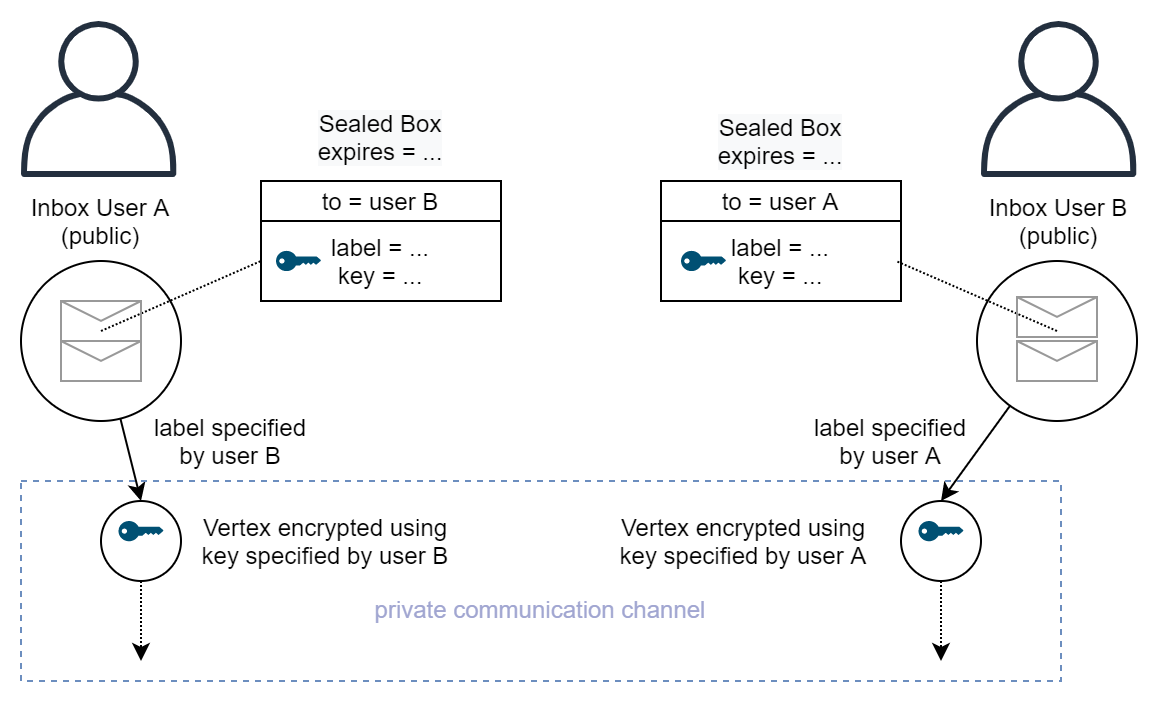
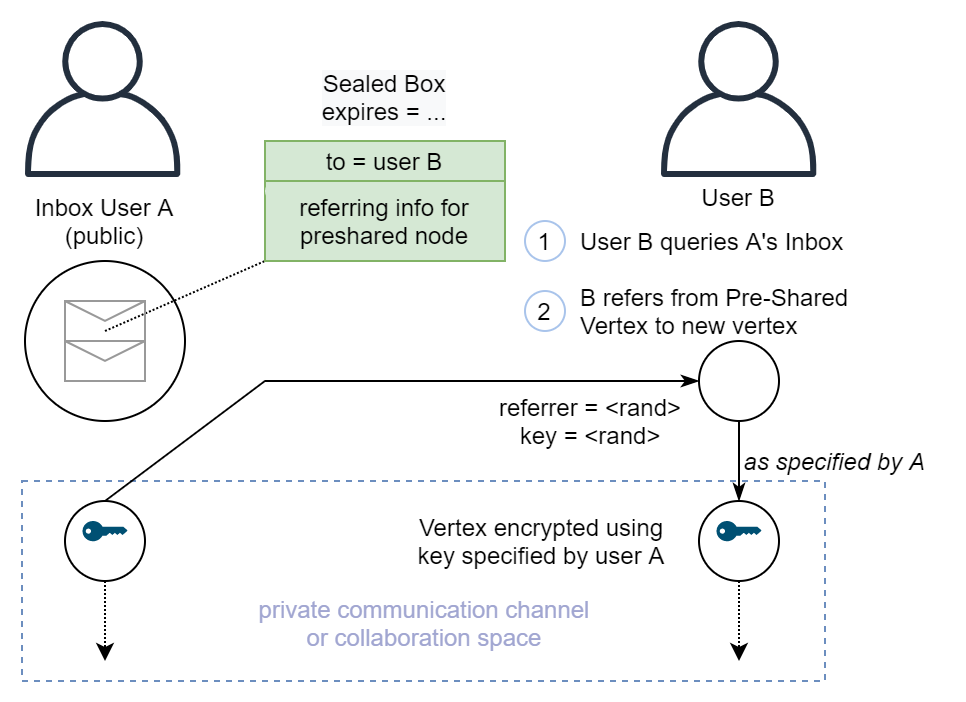
more concept revision

diff --git a/docs/private-commchannel.md b/docs/private-commchannel.md
@@ -1,0 +1,11 @@
+# Private Communication Channels
+
+Technically, private communication channels are [Collaboration Spaces](https://github.com/fsteff/certacrypt/blob/master/docs/multiwriter.md) with a custom view merging strategy.
+
+Communication channels exist between each friend user, but can also be application-defined and have an arbitrary number of participants.
+
+Similar to *normal* Collaboration Spaces, Communication Channels are initiated using [Pre-Shared Vertices](https://github.com/fsteff/certacrypt/blob/master/docs/preshared-vertices.md).
+
+The structure of such a communication sub-graph is not defined, but typically each feature or application would get its own sub-graph in order to ensure these do not interfer. Features with frequent messages need a strategy to maintain efficiency, such as creating a structure that encodes temporal ordering.
+
+*TODO: define view merging strategy*

diff --git a/docs/inbox.md b/docs/inbox.md
@@ -10,8 +10,7 @@ The *Inbox* is a public graph vertex that then refers to the individual communic
 There is one main prequesite: both user's clients need to know their public keys and they both have to check each other's feeds for *envelopes* addressed to them.
 This can be met using the following strategy:
 
-1. User A has to get the public key of user B in order to create an *envelope*
-   this can happen over multiple channels:
+1. User A has to get the public key of user B in order to create an *envelope*. This can happen over multiple channels:
    - being in the same group / collaboration channel
    - sending a friend request link over any other channel (which are URLs to one user's *Inbox*)
    - at a later stage probably over CTZN

diff --git a/docs/open-commchannel.md b/docs/open-commchannel.md
@@ -1,0 +1,7 @@
+# Open Communication Channels
+
+An Open Communication Channel works similar to a [Private Communication Channel](https://github.com/fsteff/certacrypt/blob/master/docs/private-commchannel.md), but with a mechanism that allows every participant to add others.
+
+Such a channel has a randomly generated ID that then serves as a [HyperPubSub](https://github.com/fsteff/hyperpubsub) topic. A new participant can then announce its root vertice to the others.
+
+In order to counteract spam and malious, disrupting or protocol-violating behaviour, there have to be special mechanisms. These can be partially automated but also need to be influenced by user input (such as report-spam button).

diff --git a/docs/preshared-vertices.md b/docs/preshared-vertices.md
@@ -1,0 +1,8 @@
+# Pre-Shared Vertices
+
+In order to set up [Collaboration Spaces](https://github.com/fsteff/certacrypt/blob/master/docs/multiwriter.md) or [Private Communication Channels](https://github.com/fsteff/certacrypt/blob/master/docs/private-commchannel.md) between users that don't have an active communication channel yet, Pre-Shared Vertices are a mechanism that allows creating a private edge between two graphs.
+
+For more details on the initial key exchange and the motivation see [Inbox](https://github.com/fsteff/certacrypt/blob/master/docs/inbox.md).
+
+
+![Pre-Shared Vertices Sketch](https://raw.githubusercontent.com/fsteff/certacrypt/master/docs/preshared-vertices.png)

diff --git a/README.md b/README.md
@@ -15,3 +15,4 @@ Effort to create an access-control-system for [Hyperdrive](https://hypercore-pro
 - [Initial Concept "Paper"](https://github.com/fsteff/certacrypt/blob/master/docs/concept.pdf)
 - [Multiwriter / Collaboration Spaces](https://github.com/fsteff/certacrypt/blob/master/docs/multiwriter.md)
 - [Inbox](https://github.com/fsteff/certacrypt/blob/master/docs/inbox.md)
+  
